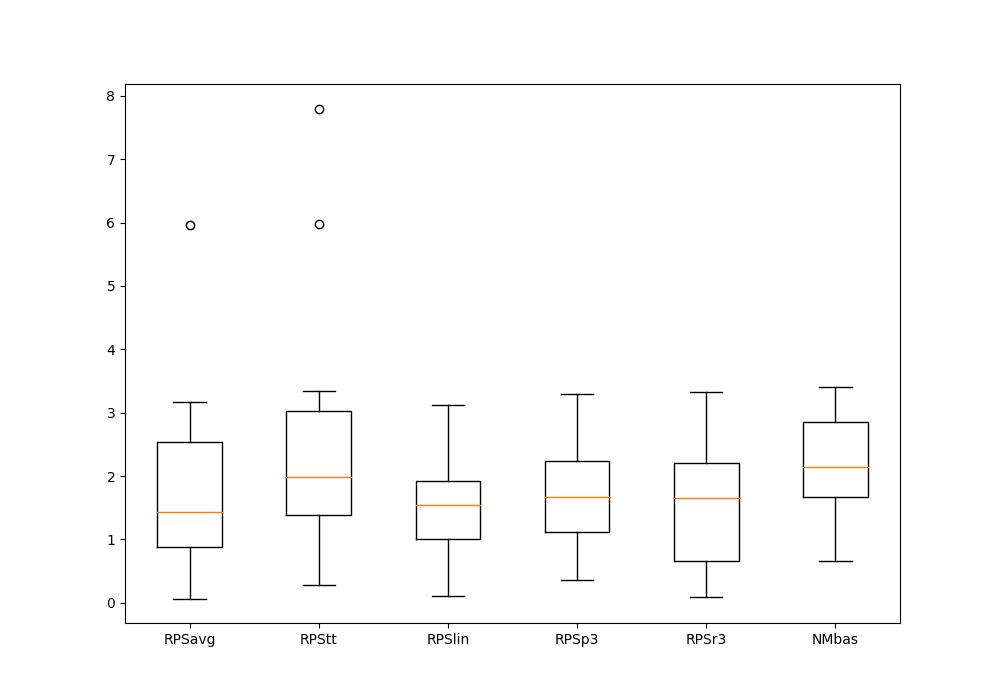
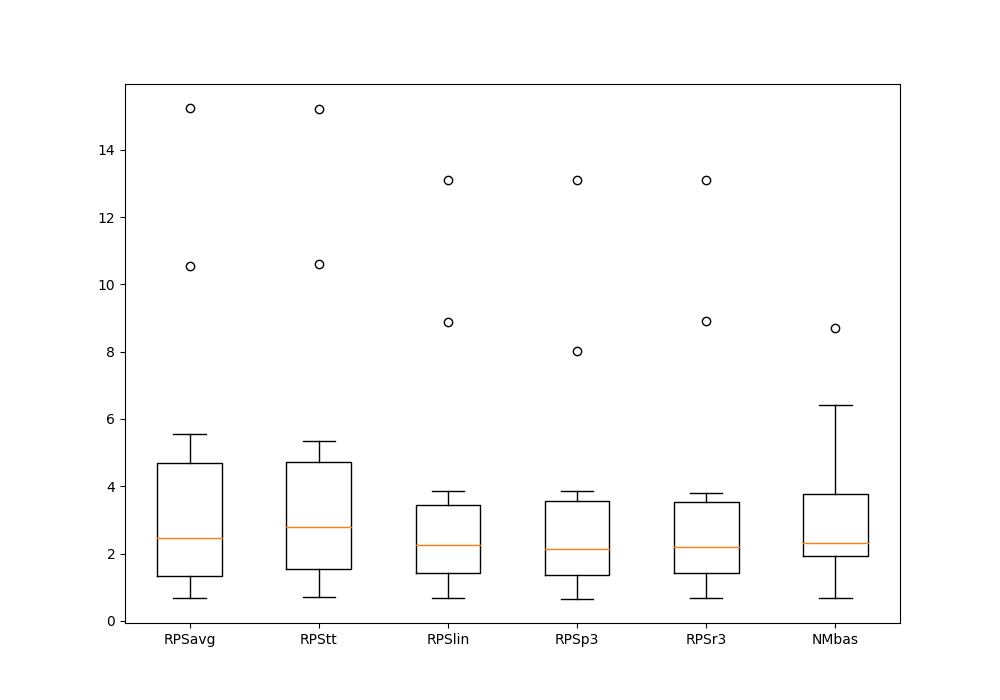
Rodado 28/08, parâmetros Ester

diff --git a/teste.py b/teste.py
@@ -89,8 +89,8 @@ functions = [
     ]
 
 #opts = {"lu": [(-5, 5)], "qtd": 30, "dim": 10, "max_avals": 1000}
-#opts = {"lu": [(-5, 5)], "qtd": 10, "dim": 5, "max_avals": 500}
-opts = {"lu": [(-5, 5)], "qtd": 2, "dim": 3, "max_avals": 300}
+opts = {"lu": [(-5, 5)], "qtd": 10, "dim": 5, "max_avals": 500}
+#opts = {"lu": [(-5, 5)], "qtd": 2, "dim": 3, "max_avals": 300}
 
 
 lu = opts["lu"]
